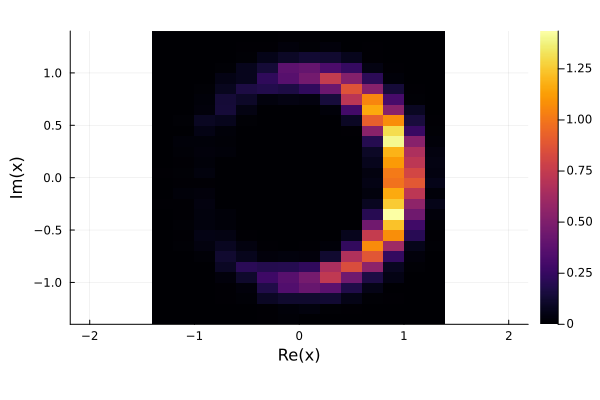
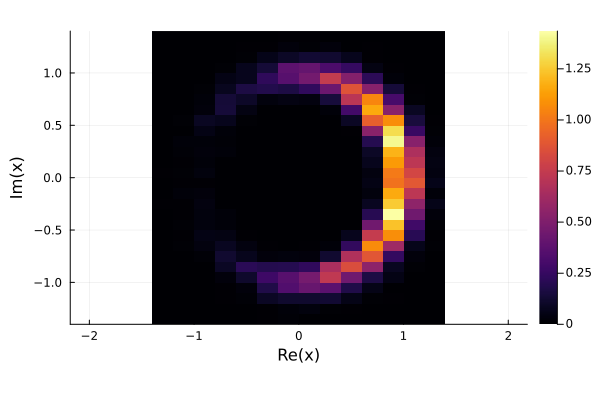
(GR) keep room for the tick labels of a colorbar (#5865)
* (GR) keep room for the tick labels of a colorbar

* Update ref049 after merging v2

---------

Changed region(s): [[0.9, 0.09, 0.99, 0.84], [0.45, 0.87, 0.54, 0.9], [0.48, 0.81, 0.51, 0.84]]

diff --git a/NEWS.md b/NEWS.md
@@ -49,6 +49,8 @@
   ticks stay on round dates. A type recipe hands the numbers back as its type with a third function
 
 ### Fixed
+- GR backend: the margin on the right of a colorbar grows with its tick labels, which ran off the plot when wider than
+  the fixed space kept for them, as on a wide plot or with long negative values (#4946)
 - GR backend: `arrow` draws the heads of a 3d path, and of a 3d `quiver`, which it left out (#4953)
 - GR backend: the colorbar of `contourf` has the colors of its bands when the levels are not evenly spaced, where it
   took them from the values of the levels (#4950), and values below `clims` take the lowest color, as those above
